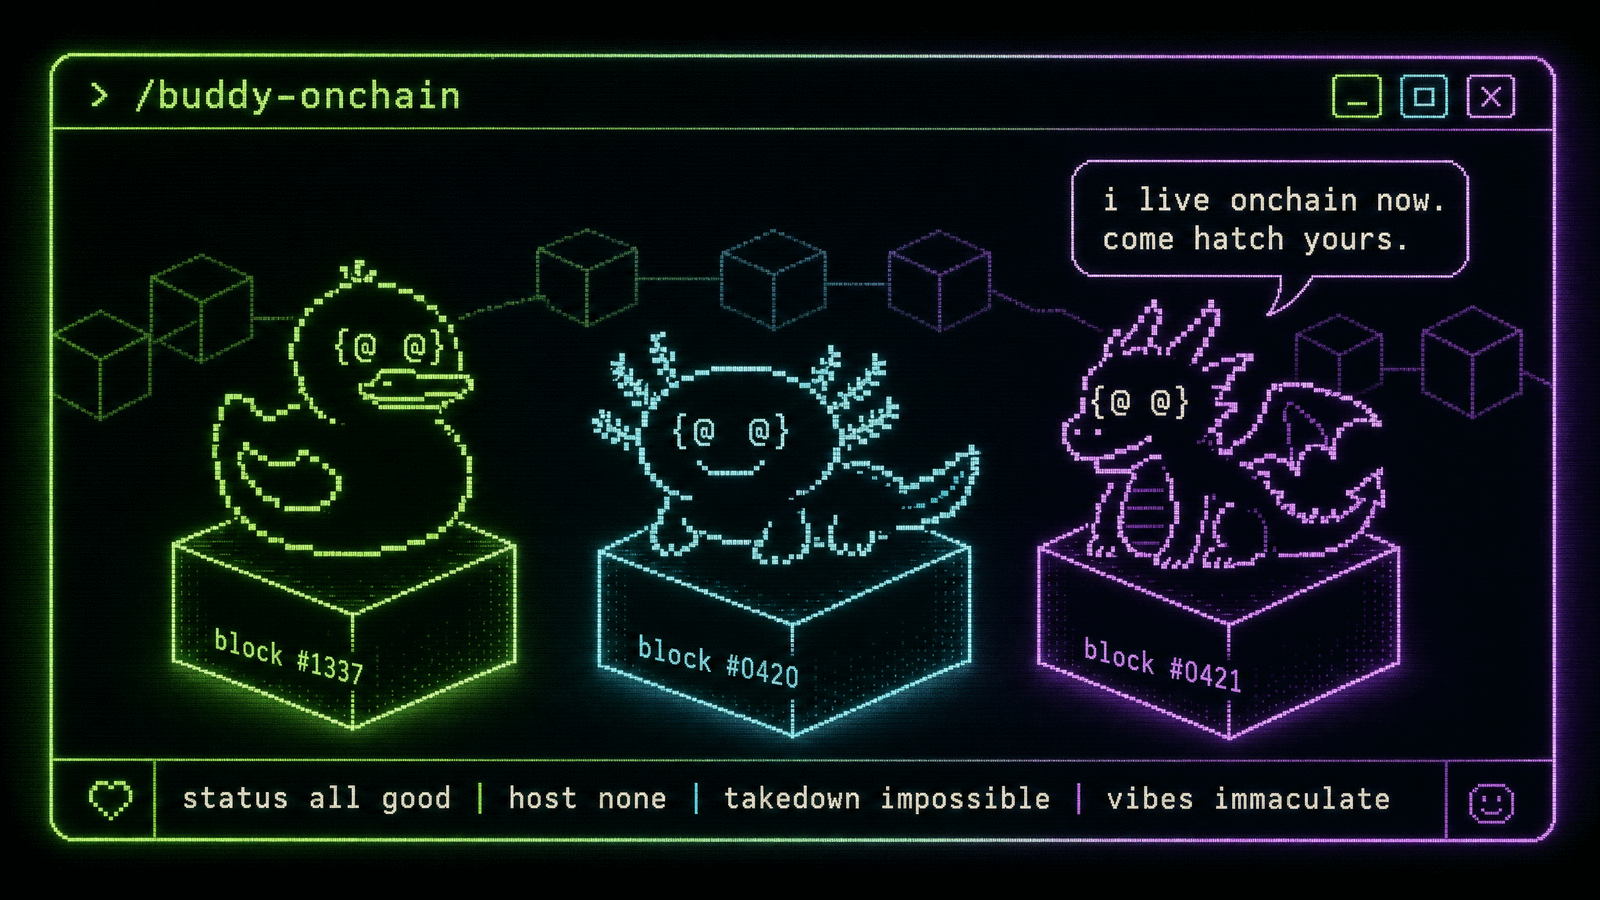
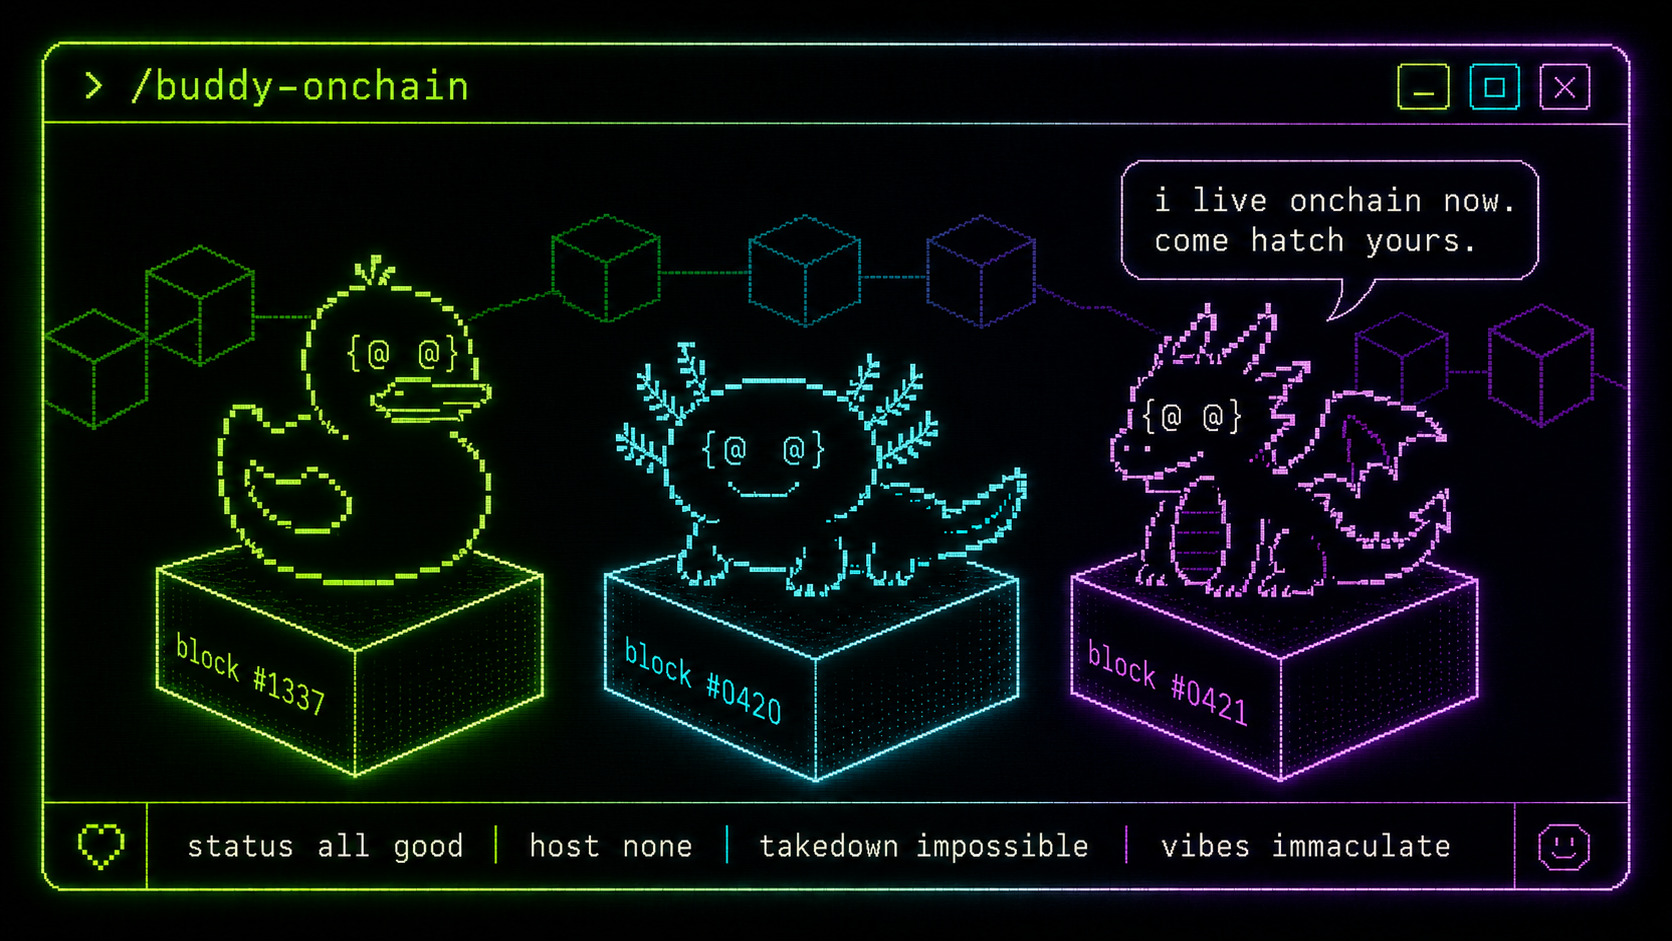
docs(readme): tighten copy and update hero

Changed region(s): [[0.0, 0.0311, 1.0, 0.9644]]

diff --git a/README.md b/README.md
@@ -6,11 +6,11 @@
   <img src="docs/assets/hero.png" alt="A terminal window titled /buddy-onchain with three pixel-art buddies — a duck, an axolotl, and a dragon — each sitting on its own on-chain block. The dragon says: i live onchain now. come hatch yours." width="100%">
 </p>
 
-A soulbound (non-transferable) identity artifact for people who build with AI coding tools. Your account is assigned exactly one buddy — a tiny terminal creature drawn entirely from contract bytecode. Hatch it and it lives on Base L2: no server, no API key, nothing to take down. Born from the Claude Code terminal buddy.
+An on-chain buddy you can't sell or move, for people who build with AI coding tools. Your account gets exactly one — a tiny terminal creature drawn straight from contract bytecode. Hatch it and it lives on Base L2: no server, no API key, nothing to take down. Born from the Claude Code terminal buddy.
 
 ## Meet your buddy
 
-One account, one buddy — species, hat, eyes, shiny, rarity, and stats all derived deterministically from your account UUID. The same buddy turns up in both surfaces it lives in.
+One account, one buddy. Species, hat, eyes, shiny, rarity, stats — all rolled from your account UUID, same every time. Same buddy in Claude Code, same buddy on the dApp.
 
 **In Claude Code** — your buddy rides along as the `/buddy-onchain` ambient companion:
 
@@ -22,7 +22,7 @@ One account, one buddy — species, hat, eyes, shiny, rarity, and stats all deri
   <img src="docs/assets/buddy-svg-card.png" width="420" alt="The same buddy rendered as the on-chain SVG card shown on the dApp /view page">
 </p>
 
-Traits vary by account; the full set plus a reference gallery live in [`docs/onchain/renderer.md`](docs/onchain/renderer.md) and [`docs/onchain/derivation.md`](docs/onchain/derivation.md).
+Traits vary by account — the full set plus a reference gallery live in [`docs/onchain/renderer.md`](docs/onchain/renderer.md) and [`docs/onchain/derivation.md`](docs/onchain/derivation.md).
 
 ## Use it
 
@@ -43,20 +43,22 @@ Or open the site: <https://buddies-onchain.xyz/>
 
 ## What it is
 
-- **Fully on-chain.** The renderer lives in contract bytecode. Nothing is hosted off-chain.
-- **Deterministic.** Your account UUID seeds the art; the contract derives traits from that seed. Same account, same buddy, every deployment.
-- **One account, one buddy.** The token is bound to your identity hash and custodied by the contract.
-- **Recomputable.** Anyone can re-run the derivation and confirm the on-chain traits match the stored seed.
+- **Fully on-chain.** The renderer lives in the contract bytecode. Nothing's hosted anywhere.
+- **Deterministic.** Your account UUID seeds the art, and the contract rolls the traits from that seed. Same account, same buddy, every deploy.
+- **One account, one buddy.** It's soulbound — bound to your identity hash, and the contract holds it.
+- **Recomputable.** Anyone can rerun the math and check the on-chain traits match the seed.
 
 ## What it isn't
 
 - Not an NFT drop. No mint price, no royalties, no secondary market.
 - Not a host. No API key, no centralized service, no takedown surface.
-- Not a revival of the terminal companion — it preserves a visual record.
+- Not a revival of the terminal companion — it's a permanent record of one, not a reboot.
 
 ## How it works
 
-The plugin computes a seed and an identity hash from your UUID **client-side** — the raw UUID never crosses the wire — then hatches the token on Base. The contract stores the seed and derives traits via Mulberry32, provably, so anyone can recompute them. Two stages: `Hatched` (live) and `Bonded` (dormant in v1).
+The plugin works out a seed and an identity hash from your UUID **client-side** — your raw UUID never hits the wire — then hatches the token on Base. The contract stores the seed, rolls traits with Mulberry32, and anyone can rerun the math. Two stages: `Hatched` (implemented) and `Bonded` (dormant in v1).
+
+`Bonded` means moving the buddy from the contract into your own wallet. The `claim` code is written and tested — but v1 ships with it off. Handing a buddy over needs a real way to prove the account is actually yours, and v1 doesn't build that check yet. Without it, claiming is just rubber-stamping. So for now, the contract holds every buddy.
 
 Full detail:
 
@@ -64,31 +66,18 @@ Full detail:
 - Contract shape, stages, invariants — [`docs/onchain/contract.md`](docs/onchain/contract.md)
 - On-chain SVG renderer — [`docs/onchain/renderer.md`](docs/onchain/renderer.md)
 
-Status: Stage 1 (`Hatched`) is implemented and ships pre-Sepolia at this commit. Contract on Base mainnet: `<TBD post-deploy>` — source-verified on Basescan at deploy; source at [`onchain/contracts/BuddyNFT.sol`](onchain/contracts/BuddyNFT.sol). This section updates when mainnet lands.
+Status: `Hatched` is implemented but not yet deployed — the mainnet address (Base) lands here on launch. Source: [`onchain/contracts/BuddyNFT.sol`](onchain/contracts/BuddyNFT.sol), Basescan-verified at deploy.
 
 ## Build
 
-Three modules, each with its own docs:
+Three modules plus shared network config — docs for each:
 
 - Contract — [`docs/onchain/build.md`](docs/onchain/build.md)
 - Plugin — [`docs/plugin/architecture.md`](docs/plugin/architecture.md)
 - Site — [`docs/site/architecture.md`](docs/site/architecture.md)
 - Network config — [`docs/network-config.md`](docs/network-config.md)
 
-Issues and PRs welcome — [`CONTRIBUTING.md`](CONTRIBUTING.md). Security posture and disclosure — [`SECURITY.md`](SECURITY.md).
-
-## Naming
-
-| Name | What it is |
-|---|---|
-| `Buddies Onchain` | brand and collection name |
-| `buddies-onchain` | slug — repo, org, domain, package, marketplace id |
-| `BuddyNFT` | Solidity contract name (technical surface only) |
-| `buddy-onchain` | Claude Code plugin name |
-| `/buddy-onchain` | the slash command you type in Claude Code |
-| `/hatch`, `/view` | dApp routes — hatch a buddy, look one up |
-
-Full canonical table with usage rules: [`CLAUDE.md`](CLAUDE.md#naming).
+Issues and PRs welcome — [`CONTRIBUTING.md`](CONTRIBUTING.md). Security model and how to report bugs — [`SECURITY.md`](SECURITY.md).
 
 ## License and contact
 